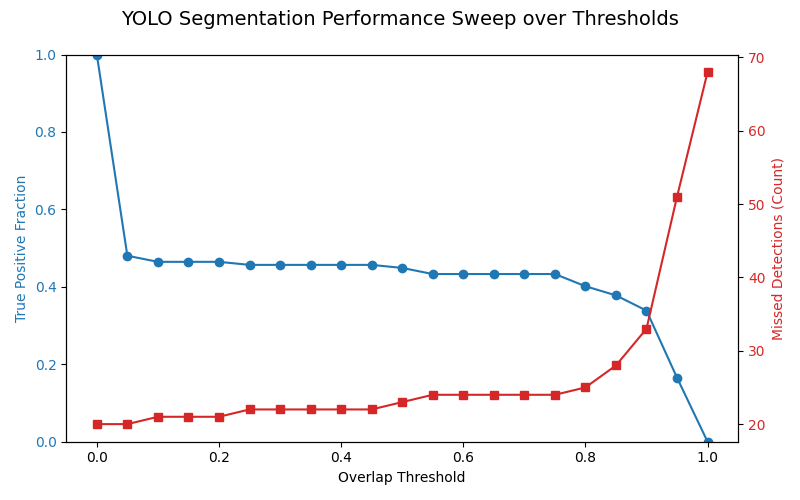
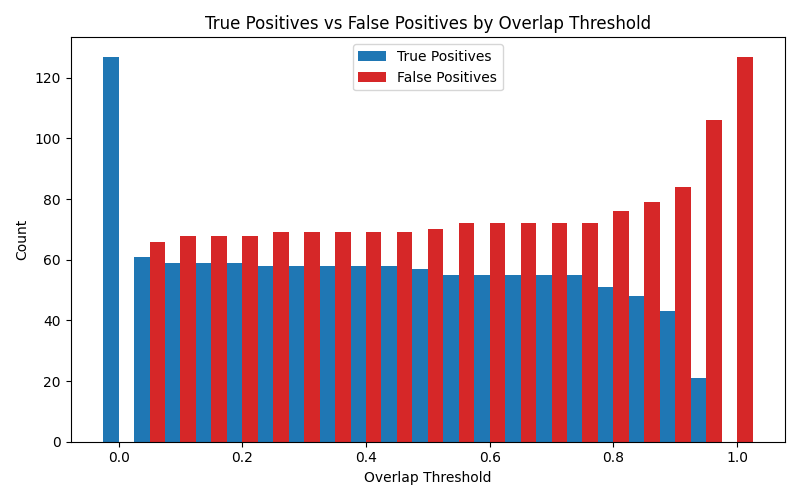
fixing histograms

diff --git a/evaluateModels/eval_YOLO_threshold_sweep.py b/evaluateModels/eval_YOLO_threshold_sweep.py
@@ -23,17 +23,15 @@ thresholds       = np.linspace(0, 1, 21)   # thresholds from 0.0 to 1.0 in steps
 
 def match_counts(pred_file, gt_file, width, height, thresh):
     """
-    For one image, count TP, FP, FN given threshold on intersection_fraction.
+    For one image, count TP, FP given threshold on intersection_fraction.
     """
     preds = yo.load_yolo_polygon(pred_file, width, height)
     gts   = yo.load_yolo_polygon(gt_file, width, height)
 
     TP = 0
     FP = 0
-    FN = 0
-
-    # Predictions: find a GT match with enough overlap
     matched_gt_indices = set()
+
     for cls_p, poly_p in preds:
         best_frac = 0
         best_gt_idx = None
@@ -48,25 +46,17 @@ def match_counts(pred_file, gt_file, width, height, thresh):
         else:
             FP += 1
 
-    # Missed detections: GT polygons that no pred matched
-    for idx_g in range(len(gts)):
-        if idx_g not in matched_gt_indices:
-            FN += 1
-
-    return TP, FP, FN
+    return TP, FP
 
 
 def sweep_thresholds(predictions_dir, labels_dir, width, height, thresholds):
-    tp_frac_list = []
-    fn_count_list = []
+    tp_list = []
+    fp_list = []
 
     pred_files = sorted(os.listdir(predictions_dir))
     for thresh in thresholds:
         total_tp = 0
         total_fp = 0
-        total_fn = 0
-        total_preds = 0
-        total_gts = 0
 
         for pred_file in pred_files:
             pred_fp = os.path.join(predictions_dir, pred_file)
@@ -75,46 +65,31 @@ def sweep_thresholds(predictions_dir, labels_dir, width, height, thresholds):
             if not os.path.exists(gt_fp):
                 continue
 
-            TP, FP, FN = match_counts(pred_fp, gt_fp, width, height, thresh)
+            TP, FP = match_counts(pred_fp, gt_fp, width, height, thresh)
             total_tp += TP
             total_fp += FP
-            total_fn += FN
-            total_preds += TP + FP
-            total_gts += TP + FN
 
-        tp_frac = total_tp / total_preds if total_preds else 0
-        fn_frac = total_fn / total_gts if total_gts else 0
+        tp_list.append(total_tp)
+        fp_list.append(total_fp)
 
-        tp_frac_list.append(tp_frac)
-        fn_count_list.append(total_fn)  # Or use fn_frac for fraction
-
-    return tp_frac_list, fn_count_list
+    return tp_list, fp_list
 
 
 if __name__ == "__main__":
-    tp_fractions, fn_counts = sweep_thresholds(
-        predictions_path, labels_path, img_width, img_height, thresholds,
+    tp_counts, fp_counts = sweep_thresholds(
+        predictions_path, labels_path, img_width, img_height, thresholds
     )
 
-    # === Plot two curves ===
-    fig, ax1 = plt.subplots(figsize=(8,5))
+    # === Plot histogram-style chart ===
+    width = 0.025  # bar width to fit side-by-side
+    fig, ax = plt.subplots(figsize=(8,5))
 
-    color_tp = 'tab:blue'
-    ax1.set_xlabel('Overlap Threshold')
-    ax1.set_ylabel('True Positive Fraction', color=color_tp)
-    ax1.plot(thresholds, tp_fractions, marker='o', color=color_tp, label='TP Fraction')
-    ax1.tick_params(axis='y', labelcolor=color_tp)
-    ax1.set_ylim([0, 1])
+    ax.bar(thresholds - width/2, tp_counts, width=width, color='tab:blue', label='True Positives')
+    ax.bar(thresholds + width/2, fp_counts, width=width, color='tab:red', label='False Positives')
 
-    ax2 = ax1.twinx()  # Second y-axis
-    color_fn = 'tab:red'
-    ax2.set_ylabel('Missed Detections (Count)', color=color_fn)
-    ax2.plot(thresholds, fn_counts, marker='s', color=color_fn, label='Missed Detections')
-    ax2.tick_params(axis='y', labelcolor=color_fn)
-
-    # Title and grid
-    fig.suptitle("YOLO Segmentation Performance Sweep over Thresholds", fontsize=14)
-    fig.grid = True
-
-    fig.tight_layout()
+    ax.set_xlabel('Overlap Threshold')
+    ax.set_ylabel('Count')
+    ax.set_title('True Positives vs False Positives by Overlap Threshold')
+    ax.legend()
+    plt.tight_layout()
     plt.savefig(f'hist_{split}.png')
